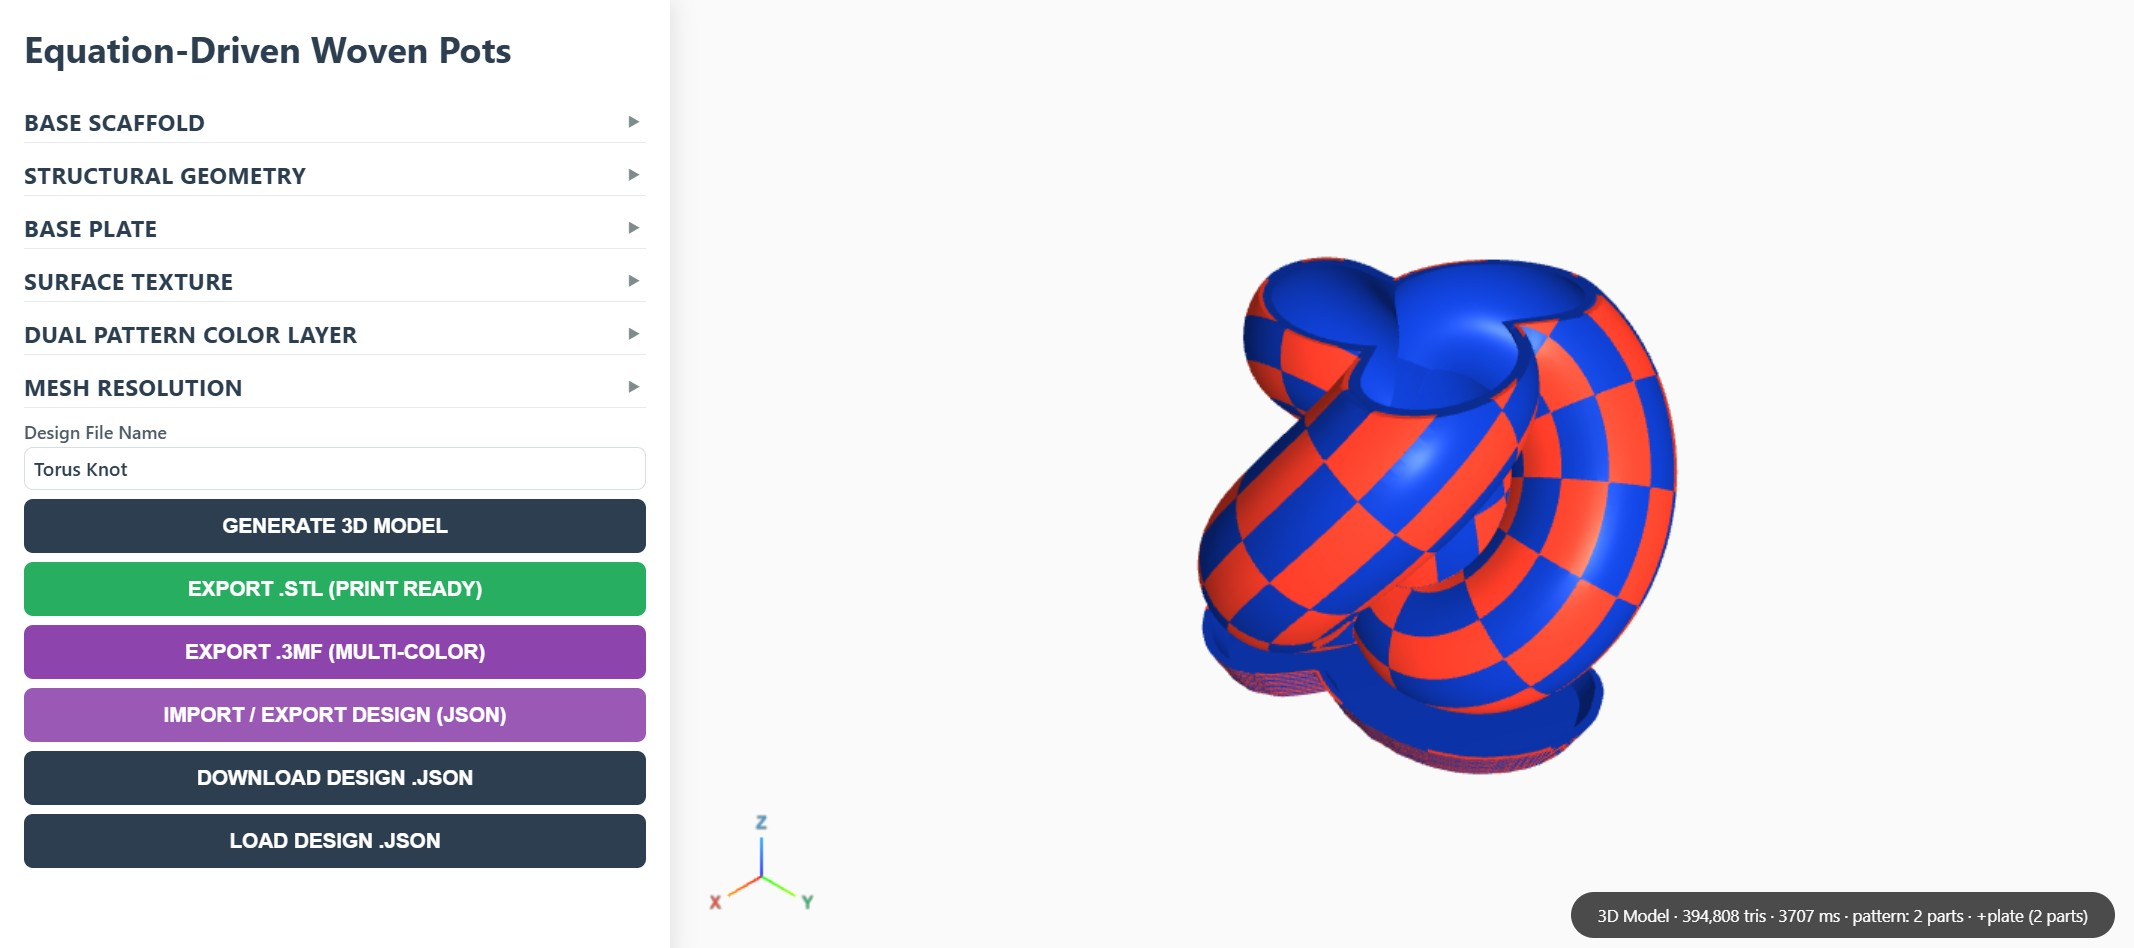
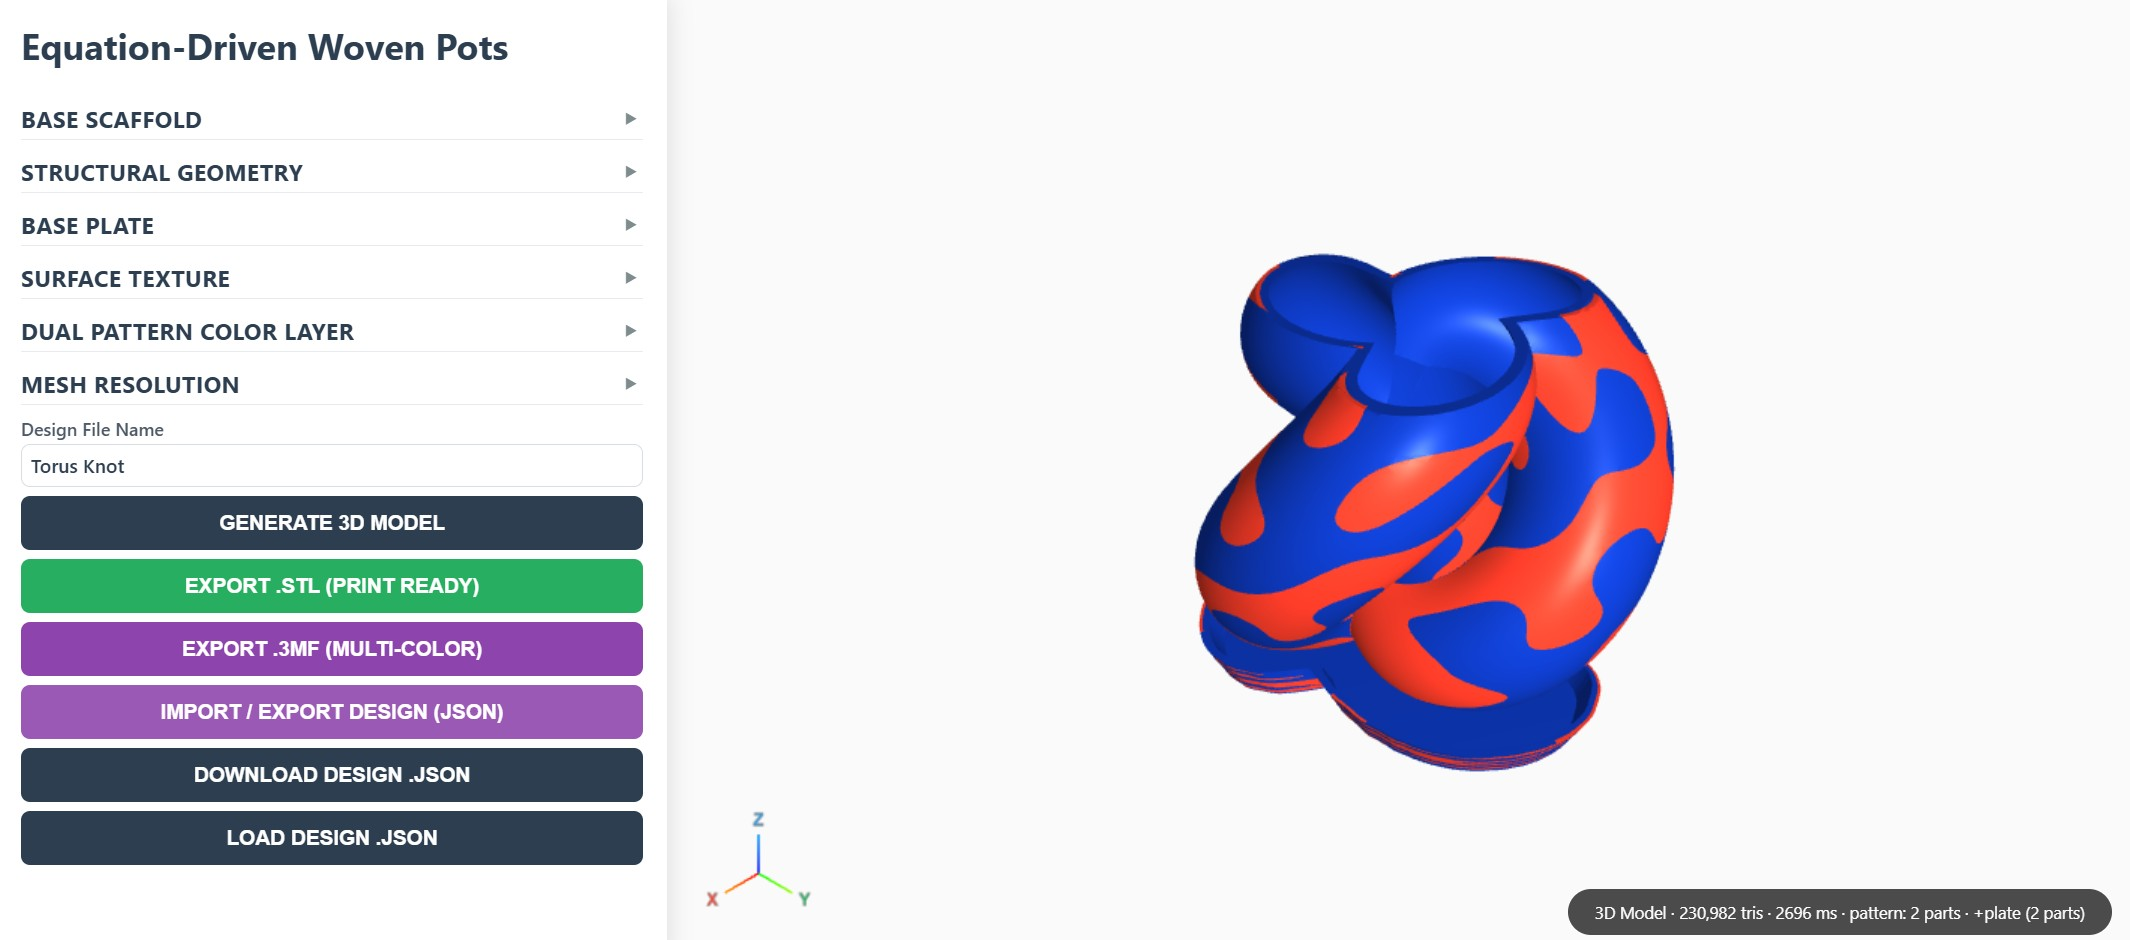
updated default image

diff --git a/EquationDrivenWovenPots.html b/EquationDrivenWovenPots.html
@@ -1164,7 +1164,7 @@
                 const grid = buildPlateColorGrid(cfg, env, plateR, zBot, zTop, flare, plateDepthCm);
                 const insetEps = Math.max(0.02, 0.15 * plateDepthCm);
                 const insetSolid = loft(zBot + plateDepthCm, zTop + insetEps, -plateDepthCm);
-                parts = buildPlatePatternParts(plate, insetSolid, grid);
+                parts = buildPlatePatternParts(plate, insetSolid, grid, bothPatternsActive(cfg));
                 insetSolid.delete();
             }
         }
@@ -1228,14 +1228,19 @@
     // at that apex on their own; a cell's "next" neighbour is treated as state 0 (always a wall)
     // past i=Nv-2, since the profile simply ends at the rim - there's no cell beyond it to compare
     // against. Otherwise identical in structure (and wall-quad winding) to buildSteppedPatternMeshes.
-    function buildPlateSteppedMeshes(grid) {
+    function buildPlateSteppedMeshes(grid, noNeither) {
         const { Nt, Nv, top, bot, fieldA, fieldB } = grid;
         const pools = { 1: { positions: [], indices: [] }, 2: { positions: [], indices: [] }, 3: { positions: [], indices: [] }, all: { positions: [], indices: [] } };
         function push(pool, p) { const i = pool.positions.length/3; pool.positions.push(p[0], p[1], p[2]); return i; }
         function tri(pool, a, b, c) { const ia=push(pool,a), ib=push(pool,b), ic=push(pool,c); pool.indices.push(ia,ib,ic); }
         function quad(pool, a, b, c, d) { tri(pool,a,b,c); tri(pool,a,c,d); }
         function pt2(rows, i, j) { const row = rows[i], o = j * 3; return [row[o], row[o+1], row[o+2]]; }
-        function state(i, j) { return (fieldA[i][j] > 0 ? 1 : 0) + (fieldB[i][j] > 0 ? 2 : 0); }
+        // Same no-neither reassignment as cellState above: A absorbs "neither" too when both
+        // masks are active.
+        function state(i, j) {
+            if (noNeither) return fieldB[i][j] > 0 ? (fieldA[i][j] > 0 ? 3 : 2) : 1;
+            return (fieldA[i][j] > 0 ? 1 : 0) + (fieldB[i][j] > 0 ? 2 : 0);
+        }
 
         for (let i = 0; i < Nv - 1; i++) {
             for (let j = 0; j < Nt; j++) {
@@ -1267,7 +1272,7 @@
     // position, never coincident with a face `plate` already has), a single state uses
     // `plate.split(cutter)`, several states cut each insert from the pristine `plate` and carve
     // the base with the merged all-states cutter. Returns null if nothing could be built.
-    function buildPlatePatternParts(plate, insetSolid, grid) {
+    function buildPlatePatternParts(plate, insetSolid, grid, noNeither) {
         const { Manifold, Mesh } = window.CSG;
         const trash = [];
         const keep = m => { trash.push(m); return m; };
@@ -1281,7 +1286,7 @@
         };
         const meshOf = (state, m) => { const g = m.getMesh(); return { state, positions: Float32Array.from(g.vertProperties), indices: Uint32Array.from(g.triVerts) }; };
         try {
-            const raw = buildPlateSteppedMeshes(grid);
+            const raw = buildPlateSteppedMeshes(grid, noNeither);
             const cutters = [];
             for (const [k, outState] of [[1, 5], [2, 6], [3, 7]]) {
                 const prism = toSolid(raw[k]);
@@ -1837,8 +1842,20 @@
         return { Nu, Nt, top, bot, fieldA, fieldB, worldPt, uRow, sRow, profile, rGrid, eq1, eq2, minZ, zRange, totalLen };
     }
 
-    function cellState(fieldA, fieldB, iu, jt) {
+    // Normally a corner's state is a straight (A>0)+(B>0) sum, and "neither" (0) is a real,
+    // visible state - the Base color. In no-neither mode (see bothPatternsActive), Pattern A
+    // silently absorbs whatever would have been "neither" too: every corner that isn't clearly B
+    // (or Overlap) just reads as A, so the Base color never appears anywhere the mask reaches.
+    function cellState(fieldA, fieldB, iu, jt, noNeither) {
+        if (noNeither) return fieldB[iu][jt] > 0 ? (fieldA[iu][jt] > 0 ? 3 : 2) : 1;
         return (fieldA[iu][jt] > 0 ? 1 : 0) + (fieldB[iu][jt] > 0 ? 2 : 0);
+    }
+
+    // True once BOTH mask slots hold a real equation (neither is left at "-1"/None): that's the
+    // trigger for "no-neither" mode (see cellState) - with only one mask active, "neither" still
+    // legitimately means "this pattern doesn't reach here" and should keep showing Base.
+    function bothPatternsActive(cfg) {
+        return (cfg.patternEq1 || '-1').trim() !== '-1' && (cfg.patternEq2 || '-1').trim() !== '-1';
     }
 
     // Welds a raw triangle soup into an indexed mesh (position-hash weld, same tolerance as the
@@ -1874,7 +1891,7 @@
     // with no internal geometry. Top face wound outward, bottom face wound inward (reversed), and
     // wall quads follow the same boundary-walk direction as the top face - the standard
     // "extrude a closed region" convention.
-    function buildSteppedPatternMeshes(grid) {
+    function buildSteppedPatternMeshes(grid, noNeither) {
         const { Nu, Nt, top, bot, fieldA, fieldB } = grid;
         // Besides one prism per state, `all` is the union of states 1-3 with walls only against
         // state 0 - the single cutter buildPatternParts carves the base with.
@@ -1887,12 +1904,12 @@
             const iu1 = (iu+1) % Nu, iuPrev = (iu-1+Nu) % Nu;
             for (let jt = 0; jt < Nt; jt++) {
                 const jt1 = (jt+1) % Nt, jtPrev = (jt-1+Nt) % Nt;
-                const state = cellState(fieldA, fieldB, iu, jt);
+                const state = cellState(fieldA, fieldB, iu, jt, noNeither);
                 if (state === 0) continue;
                 const topA=pt(top,iu,jt), topB=pt(top,iu,jt1), topC=pt(top,iu1,jt1), topD=pt(top,iu1,jt);
                 const botA=pt(bot,iu,jt), botB=pt(bot,iu,jt1), botC=pt(bot,iu1,jt1), botD=pt(bot,iu1,jt);
-                const sPrevU = cellState(fieldA,fieldB,iuPrev,jt), sNextT = cellState(fieldA,fieldB,iu,jt1);
-                const sNextU = cellState(fieldA,fieldB,iu1,jt), sPrevT = cellState(fieldA,fieldB,iu,jtPrev);
+                const sPrevU = cellState(fieldA,fieldB,iuPrev,jt,noNeither), sNextT = cellState(fieldA,fieldB,iu,jt1,noNeither);
+                const sNextU = cellState(fieldA,fieldB,iu1,jt,noNeither), sPrevT = cellState(fieldA,fieldB,iu,jtPrev,noNeither);
                 for (const pool of [pools[state], pools.all]) {
                     // A neighbour is outside this solid when its state differs (per-state prism)
                     // or is 0 (merged prism).
@@ -1991,8 +2008,11 @@
     // with extra vertices on an edge is fanned from its centre instead of being cut in two, so no
     // T-junction is ever welded into a prism. State 0 needs no geometry (the base comes from the
     // CSG subtraction); besides the three per-state pools, `all` holds the union of states 1-3
-    // with walls only against state 0 - the cutter that carves the base.
-    function buildSmoothPatternMeshes(grid, refineLevel) {
+    // with walls only against state 0 - the cutter that carves the base. When `noNeither` is set
+    // (see bothPatternsActive), state 0 never gets emitted at all - state 1 (A) absorbs it, same
+    // reassignment as cellState's no-neither branch, just carried out geometrically here instead
+    // of numerically (see emitState/emitTriangle for how the fa=0 edge stops being a real wall).
+    function buildSmoothPatternMeshes(grid, refineLevel, noNeither) {
         const { Nu, Nt, top, bot, worldPt, uRow, sRow, profile, rGrid, eq1, eq2, minZ, zRange, totalLen } = grid;
         const fA = nearZeroFixWrap(grid.fieldA, Nu, Nt);
         const fB = nearZeroFixWrap(grid.fieldB, Nu, Nt);
@@ -2055,14 +2075,20 @@
                 const v1 = poly[i], v2 = poly[(i+1) % n];
                 const wallA = Math.abs(v1.fa) < 1e-9 && Math.abs(v2.fa) < 1e-9;
                 const wallB = Math.abs(v1.fb) < 1e-9 && Math.abs(v2.fb) < 1e-9;
+                // No-neither mode: state 1's fa=0 edge no longer separates two different states
+                // (both sides are now "A"), so it isn't a wall at all any more - only its fb=0
+                // edge (still the real boundary against state 2) stays a wall.
+                if (noNeither && state === 1 && wallA && !wallB) continue;
                 if (!wallA && !wallB) continue;
                 const dx=v2.top[0]-v1.top[0], dy=v2.top[1]-v1.top[1], dz=v2.top[2]-v1.top[2];
                 if (dx*dx+dy*dy+dz*dz < 1e-14) continue;
                 wall(pool, v1, v2);
                 // In the merged solid only edges that border state 0 are walls: across an fa
                 // contour edge only fb's sign persists (state 1 -> 0, but 3 -> 2), across an fb
-                // edge only fa's (2 -> 0, but 3 -> 1).
-                if ((wallA && state === 1) || (wallB && state === 2)) wall(all, v1, v2);
+                // edge only fa's (2 -> 0, but 3 -> 1). No-neither mode has no state 0 anywhere, so
+                // `all` never gets a wall at all - it becomes the whole closed skin, no boundary
+                // curve left to close (same reasoning as the stepped builder's "all" pool).
+                if (!noNeither && ((wallA && state === 1) || (wallB && state === 2))) wall(all, v1, v2);
             }
         }
         function emitTriangle(t3) {
@@ -2071,6 +2097,8 @@
             emitState(clipPoly(posA, 'fb', true, ctx), 3);
             emitState(clipPoly(posA, 'fb', false, ctx), 1);
             emitState(clipPoly(negA, 'fb', true, ctx), 2);
+            // The old "neither" corner (fa<=0 && fb<=0) becomes part of A too.
+            if (noNeither) emitState(clipPoly(negA, 'fb', false, ctx), 1);
         }
         // One (sub-)cell A,B,C,D (A = its (iu,jt) corner, B along theta, C diagonal, D along u)
         // plus whatever extra vertices its four edges carry from finer neighbours: plain -> the two
@@ -2201,7 +2229,8 @@
         try {
             const insetSolid = keep(buildInsetSolid(cfg, R, depthCm));
             const grid = buildPatternGrid(cfg, R, depthCm);
-            const raw = cfg.smoothPatternEdges ? buildSmoothPatternMeshes(grid, cfg.boundaryRefine) : buildSteppedPatternMeshes(grid);
+            const noNeither = bothPatternsActive(cfg);
+            const raw = cfg.smoothPatternEdges ? buildSmoothPatternMeshes(grid, cfg.boundaryRefine, noNeither) : buildSteppedPatternMeshes(grid, noNeither);
             const cutters = [];
             for (const k of [1, 2, 3]) {
                 const prism = toSolid(raw[k]);
